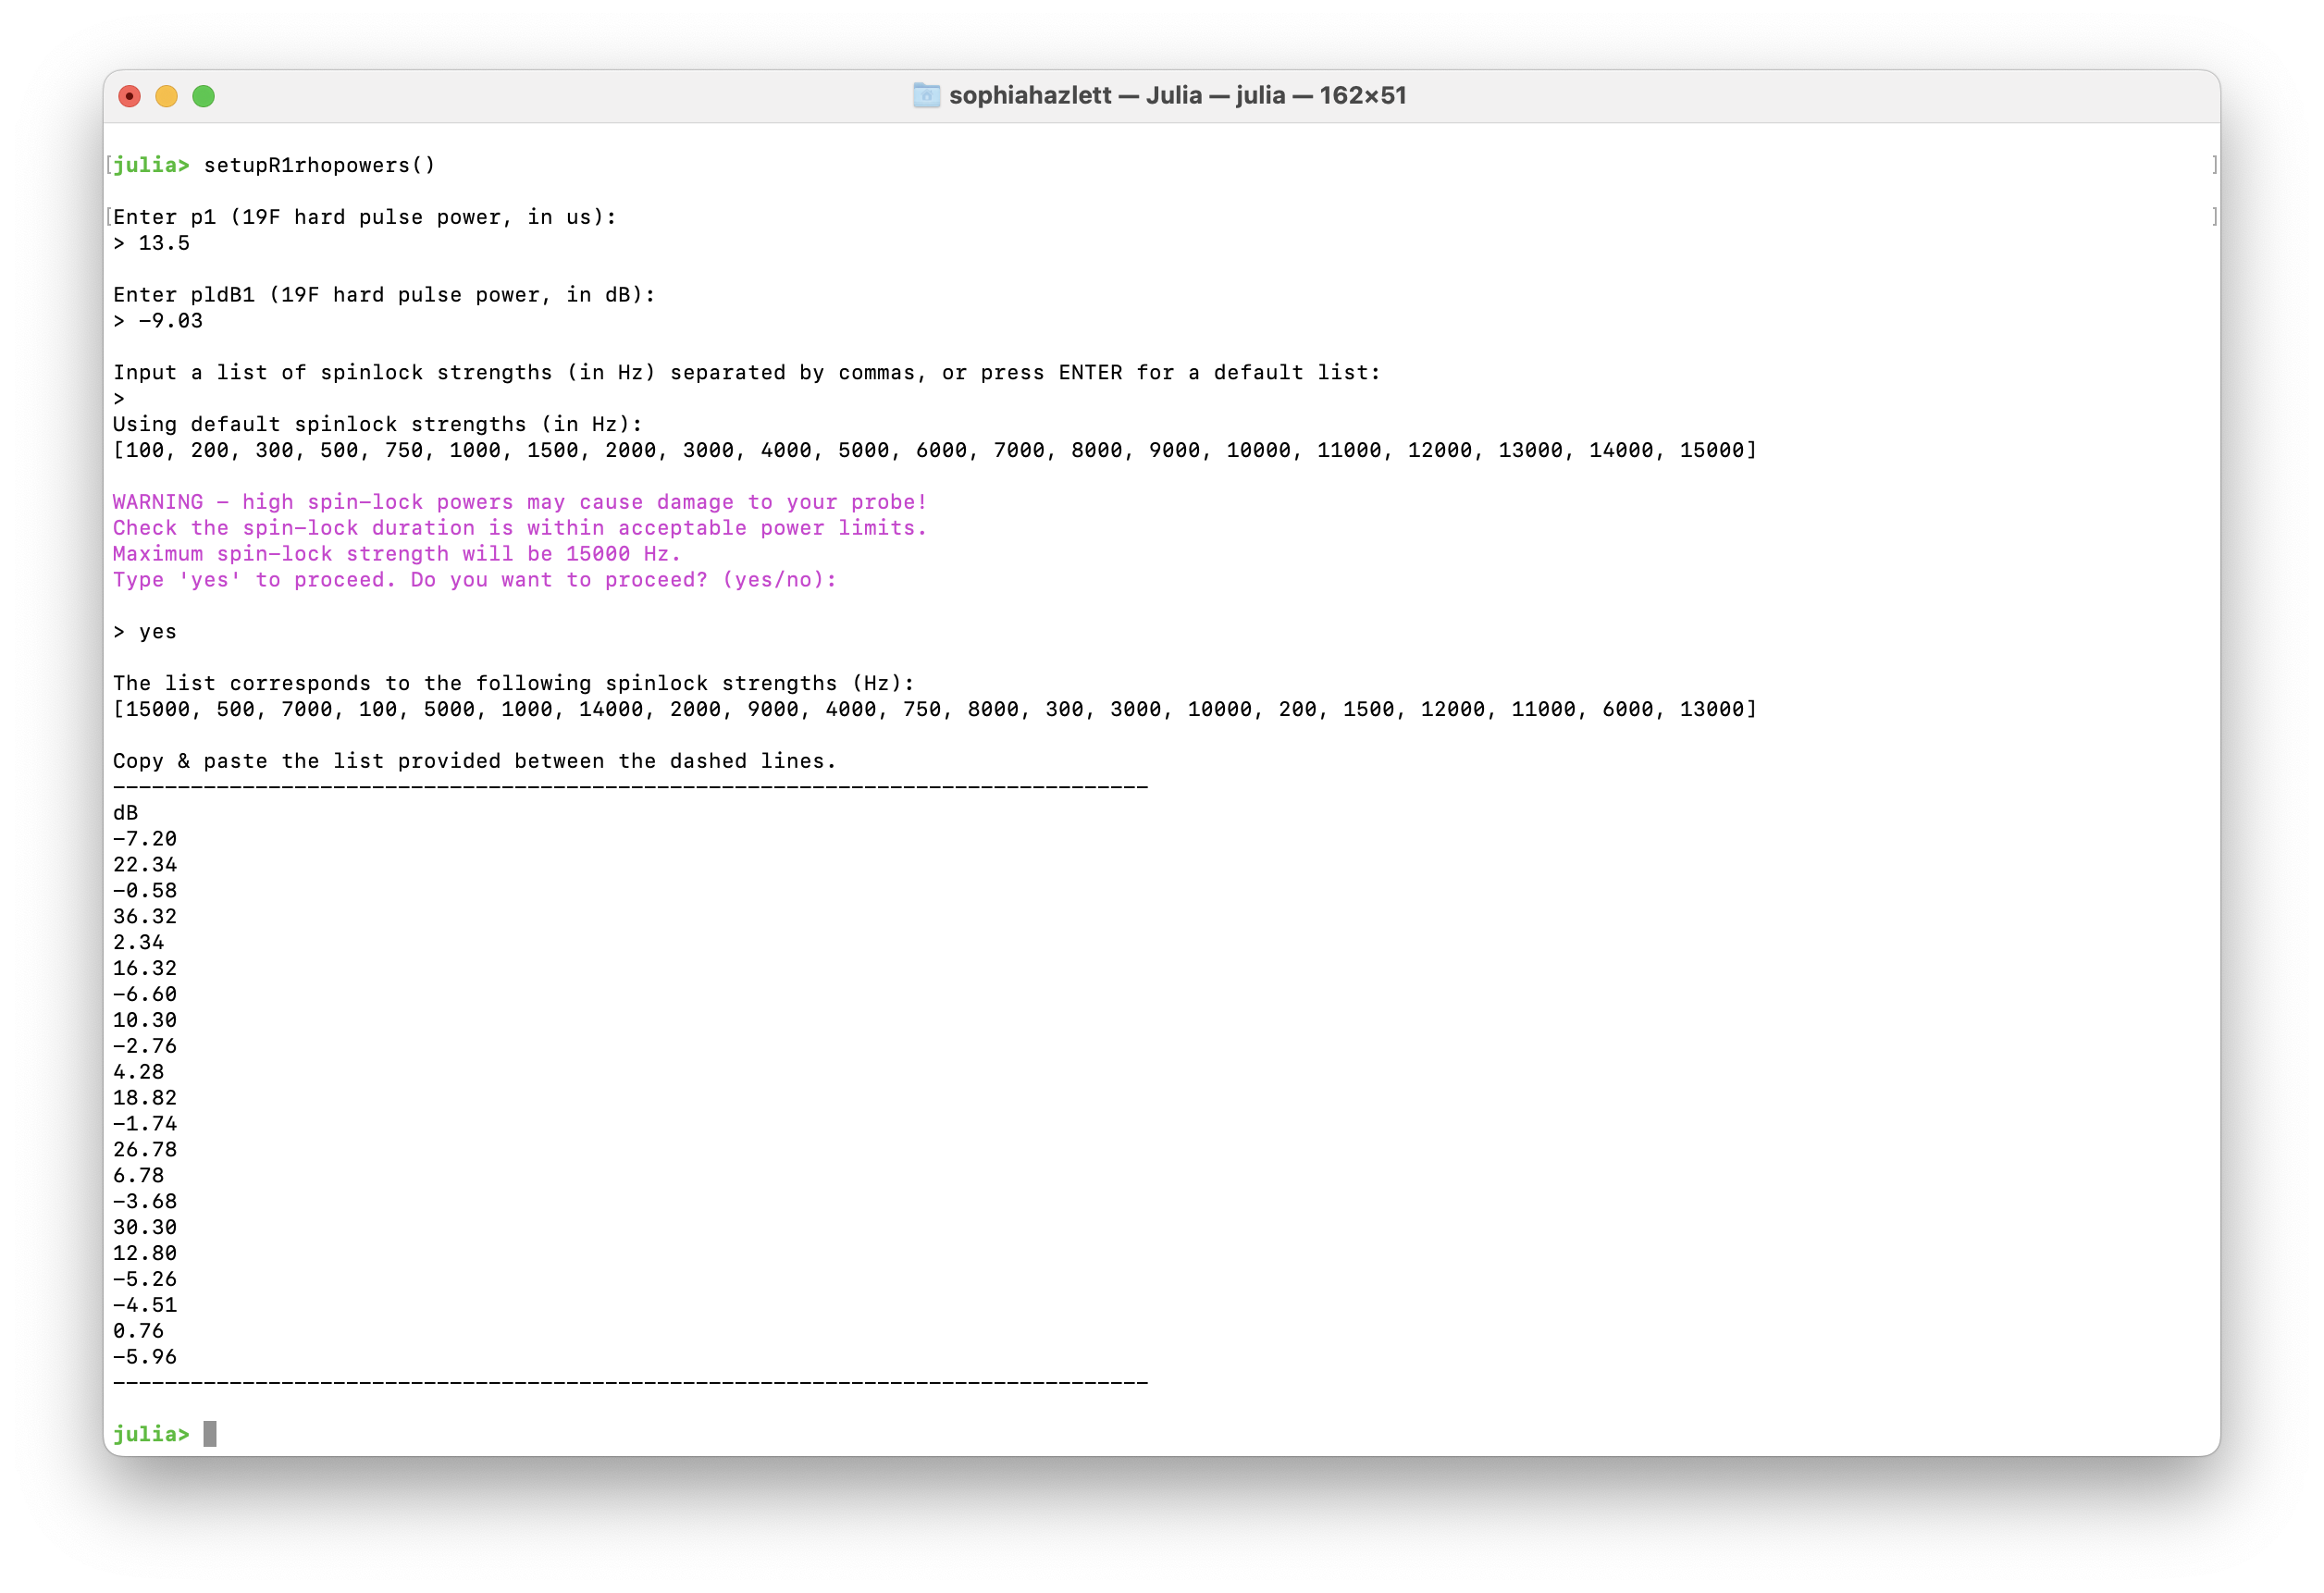
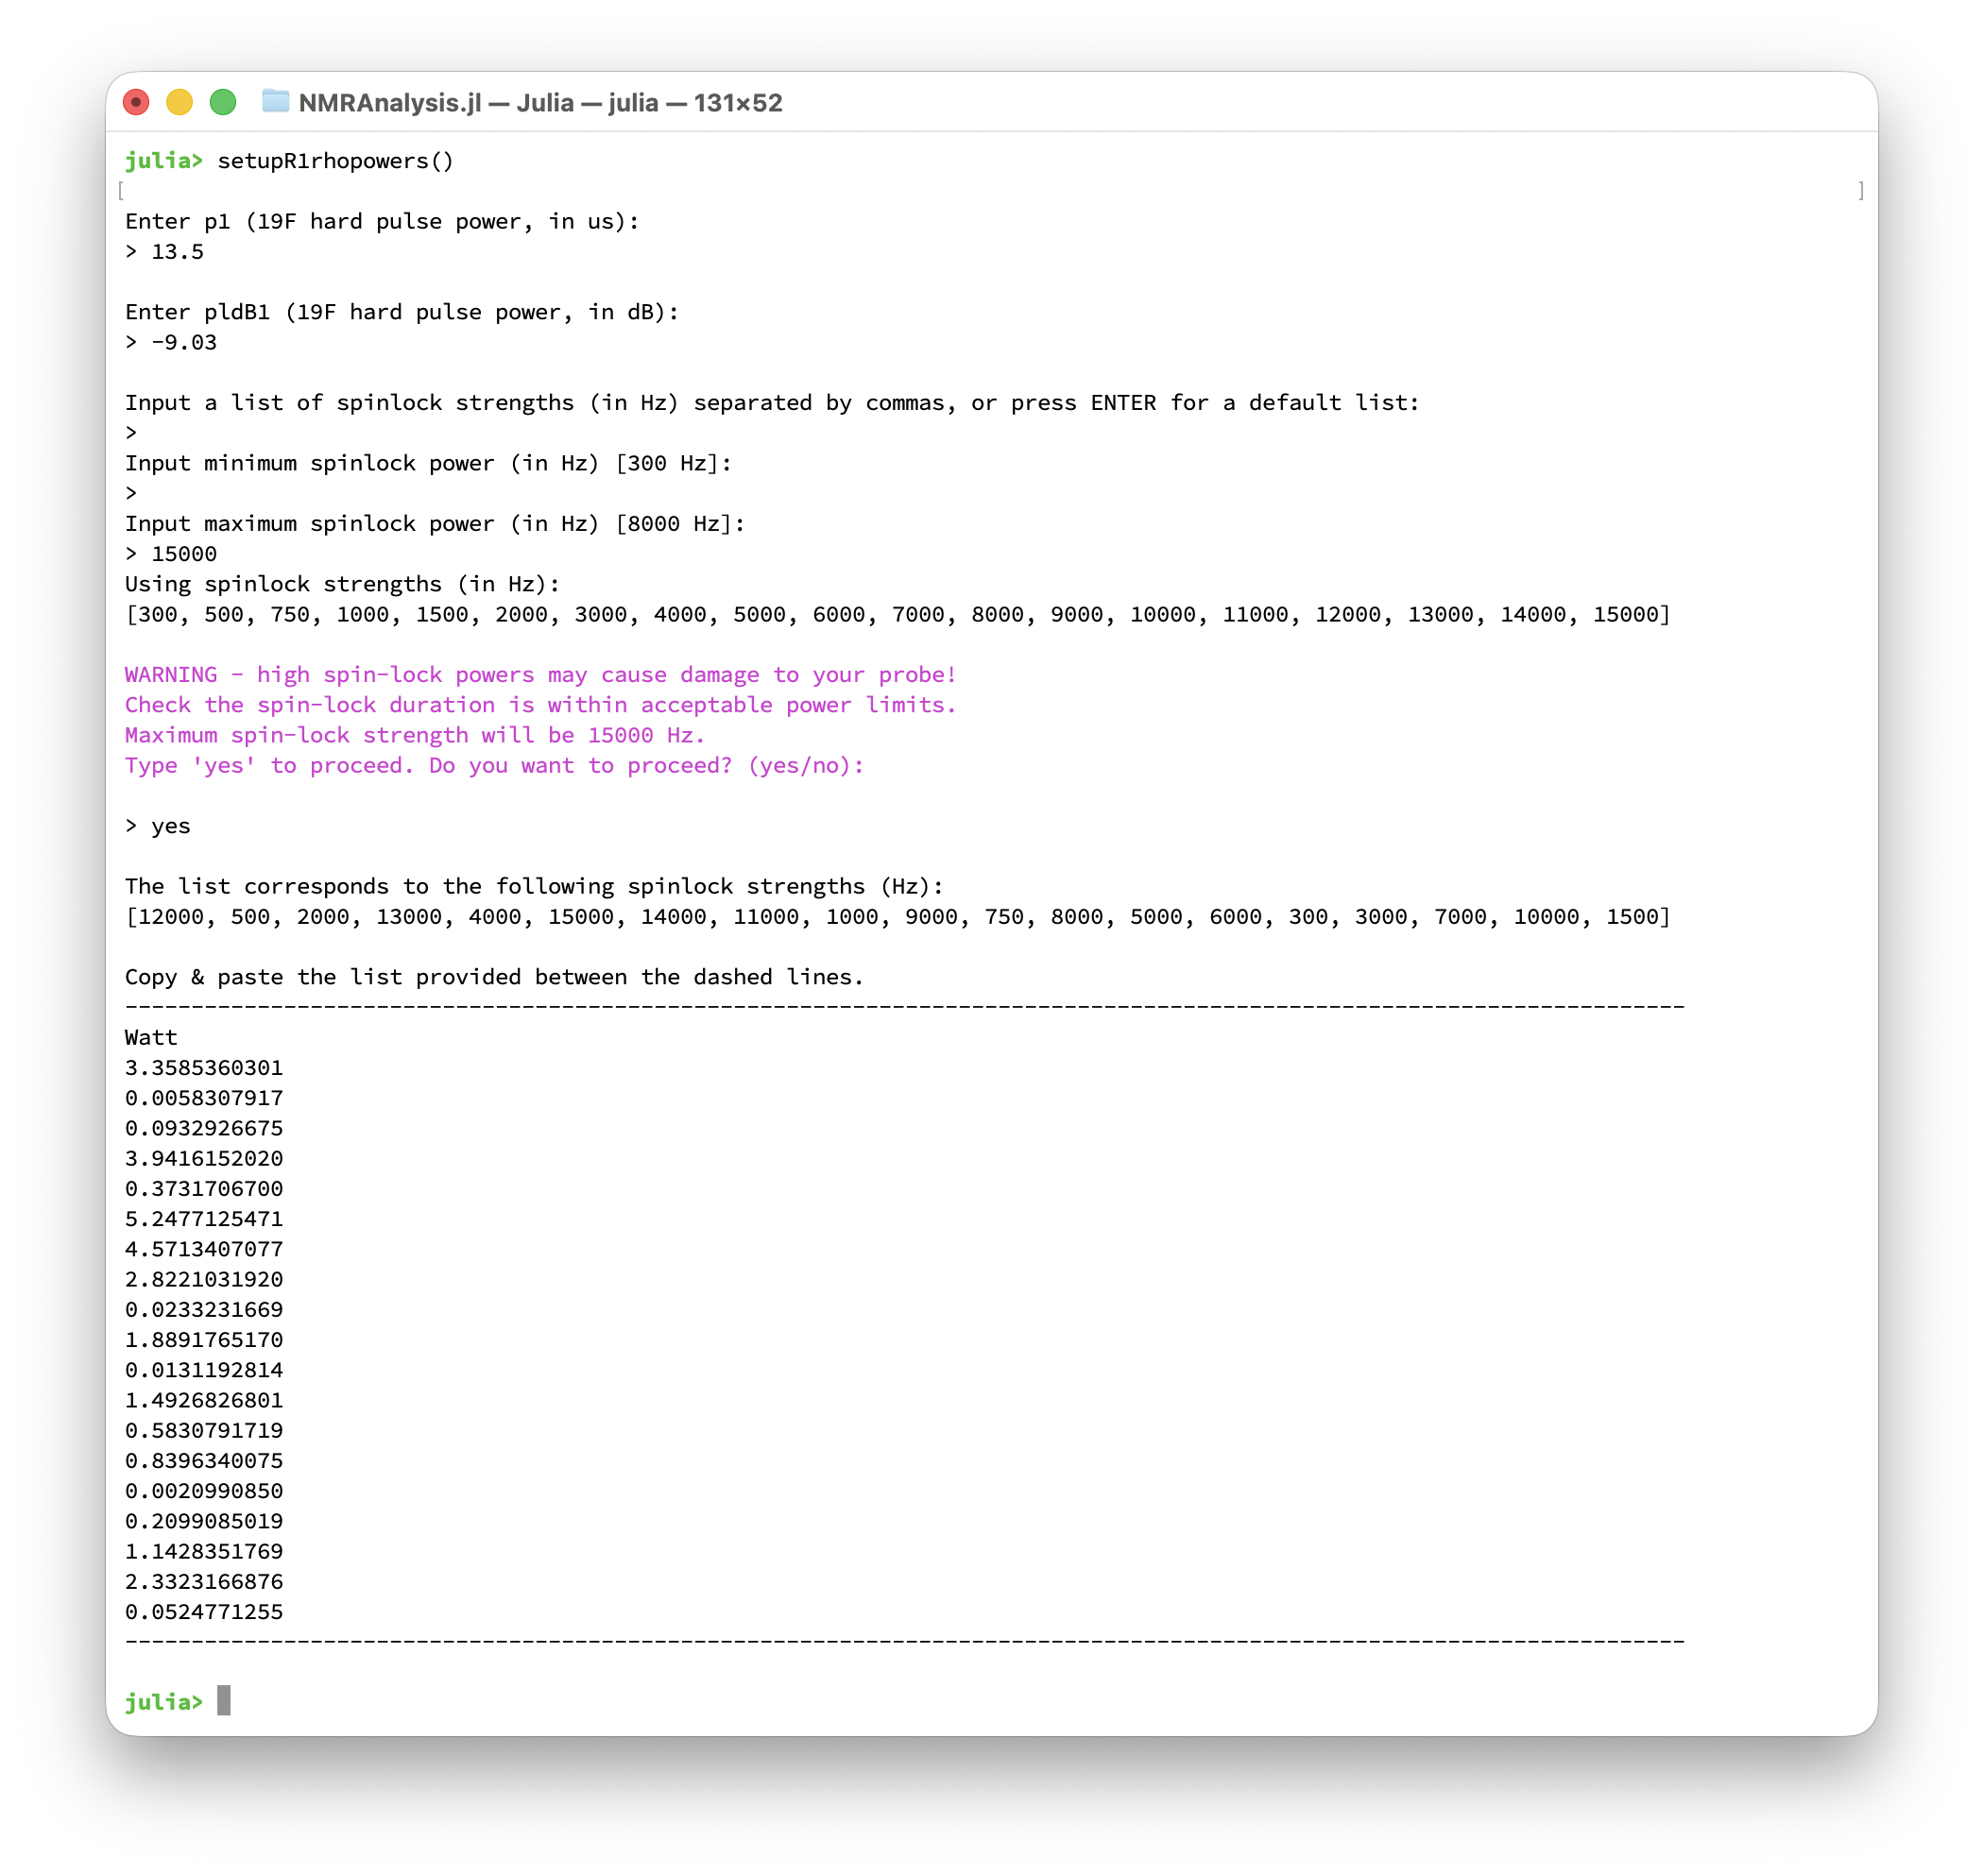
update R1rho tutorial to Watts

diff --git a/docs/src/tutorials/r1rho.md b/docs/src/tutorials/r1rho.md
@@ -34,51 +34,54 @@ setupR1rhopowers("examples/calibration/1")
 This first analyses the calibration experiment and then prompts for spinlock strengths:
 
 ```
-[ Info: Analysing calibration by nutation on examples/calibration/1
 [ Info:  - Power level: 16.997737581326444 dB
 [ Info:  - Nutation frequency ν₁: 1010.6 ± 5.7 Hz
-[ Info:  - 90° pulse length: 247.4 ± 1.4 μs
+[ Info:  - 90° pulse length: 247.4 ± 1.4 µs
 [ Info:  - Decay rate: 327.0 ± 69.0 s⁻¹
 [ Info:  - B₁ inhomogeneity (R/2πν₁): 5.1 ± 1.1 %
 
-Input a list of spinlock strengths (in Hz) separated by commas, or press ENTER for a default list (100-15000 Hz):
->
-Using default spinlock strengths (in Hz):
+Input a list of spinlock strengths (in Hz) separated by commas, or press ENTER for a default list:
+> 
+Input minimum spinlock power (in Hz) [300 Hz]:
+> 
+Input maximum spinlock power (in Hz) [8000 Hz]:
+> 15000
+Using spinlock strengths (in Hz):
 [300, 500, 750, 1000, 1500, 2000, 3000, 4000, 5000, 6000, 7000, 8000, 9000, 10000, 11000, 12000, 13000, 14000, 15000]
 
-WARNING - high spin-lock powers may cause damage to your probe!
-Check the spin-lock duration is within acceptable power limits.
-Maximum spin-lock strength will be 15000 Hz.
+WARNING - high spin-lock powers may cause damage to your probe! 
+Check the spin-lock duration is within acceptable power limits. 
+Maximum spin-lock strength will be 15000 Hz. 
 Type 'yes' to proceed. Do you want to proceed? (yes/no):
 
 > yes
 
 The list corresponds to the following spinlock strengths (Hz):
-[14000, 12000, 8000, 4000, 15000, 13000, 10000, 1000, 2000, 11000, 1500, 9000, 5000, 750, 3000, 300, 500, 6000, 7000]
+[7000, 13000, 12000, 11000, 14000, 750, 500, 300, 1500, 15000, 5000, 1000, 10000, 6000, 9000, 4000, 2000, 3000, 8000]
 
 Copy & paste the list provided between the dashed lines.
---------------------------------------------------------------------------------------------------------------------------------------------------------------------------------
-dB
--5.83
--4.49
--0.97
-5.05
--6.43
--5.19
--2.91
-17.09
-11.07
--3.74
-13.57
--2.00
-3.11
-19.59
-7.55
-27.55
-23.11
-1.53
-0.19
---------------------------------------------------------------------------------------------------------------------------------------------------------------------------------
+-----------------------------------------------------------------------------------------------------------------------------------------------------------------
+Watt
[phone redacted]
[phone redacted]
[phone redacted]
[phone redacted]
[phone redacted]
[phone redacted]
[phone redacted]
[phone redacted]
[phone redacted]
[phone redacted]
[phone redacted]
[phone redacted]
[phone redacted]
[phone redacted]
[phone redacted]
[phone redacted]
[phone redacted]
[phone redacted]
[phone redacted]
+-----------------------------------------------------------------------------------------------------------------------------------------------------------------
 ```
 
 #### Option B: Manual Input
@@ -97,7 +100,7 @@ You will be prompted to enter:
 
 - You may supply a custom list of spinlock strengths (in Hz), or use the default set provided.
 - For high spinlock powers (>10 kHz), a warning will be issued to verify that the spinlock duration remains within acceptable power limits.
-- The output is a list of calibrated spinlock powers (in dB) that can be copied directly into VALIST in TopSpin.
+- The output is a list of calibrated spinlock powers (in Watts) that can be copied directly into VALIST in TopSpin.
 - The list is shuffled to avoid systematic errors from sample heating.
 
 ![setupR1rhopowers](../assets/setupR1rhopowers.png)